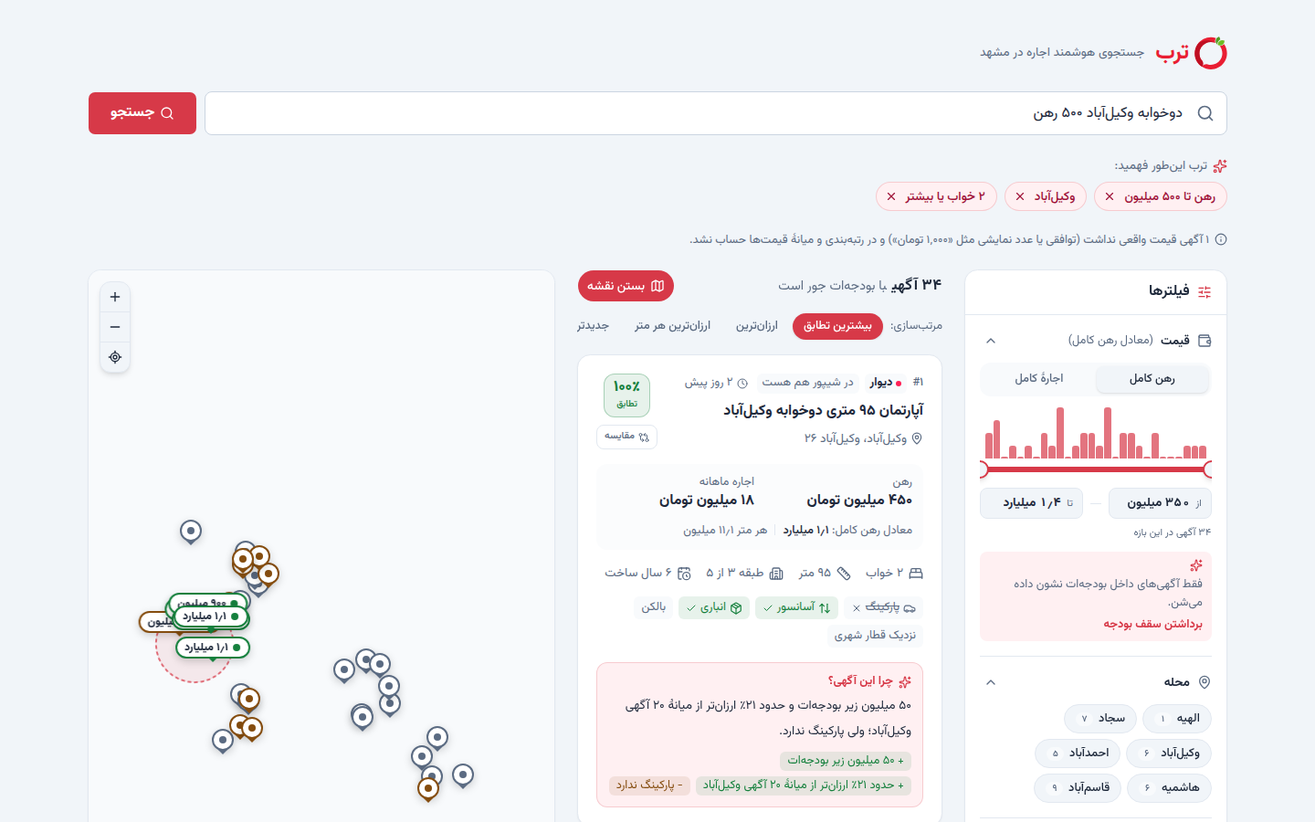
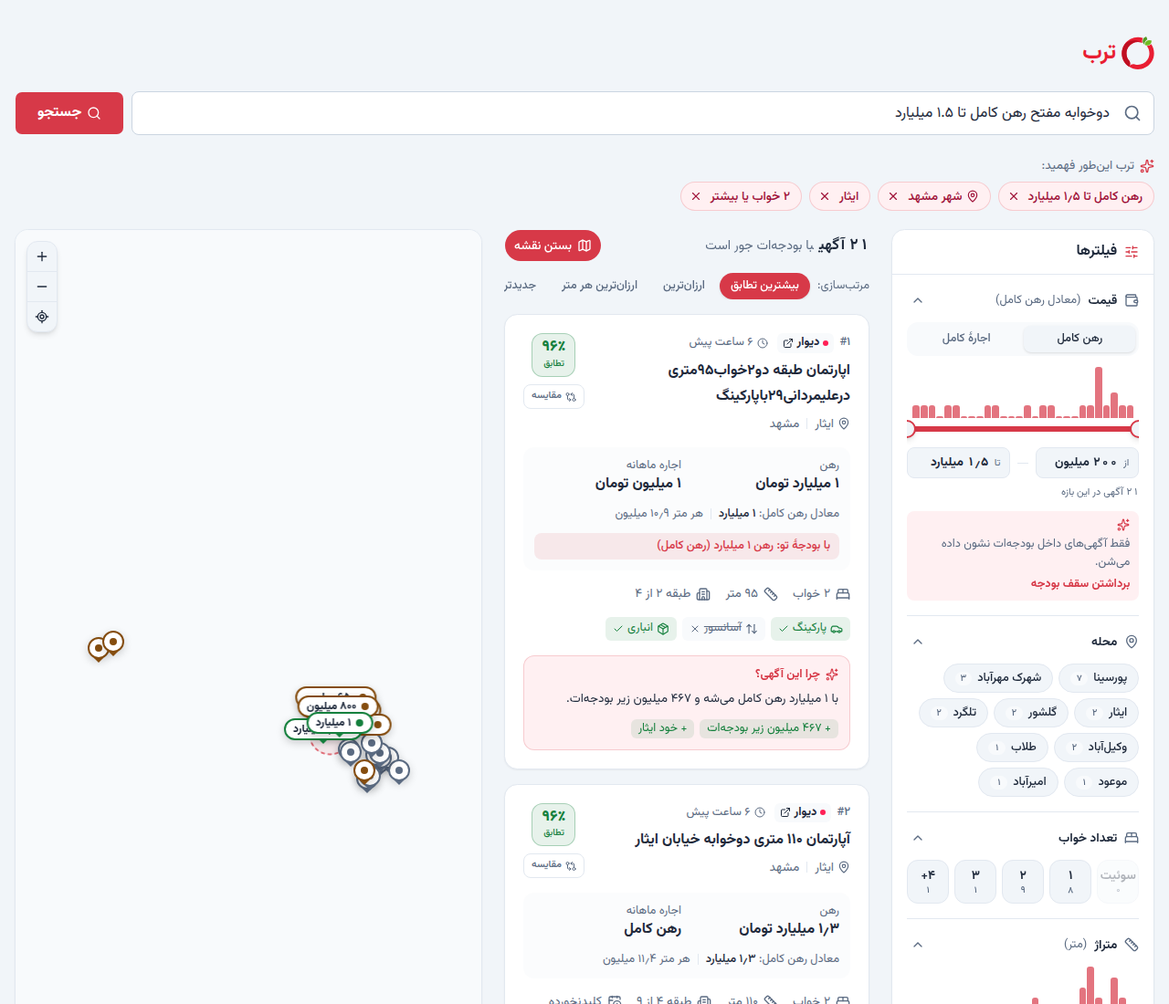
docs(demo): approved real-data demo queries and script
Owner approved option (a): the demo script now uses three queries that
work on the 50 real Divar ads (Mofatteh 2-bed full rahn, Vakilabad
tight budget, Poursina villa + remove the neighborhood chip).
demo-queries.ts follows, with a test that each returns results;
README screenshots retaken on real data. An ad for living with the
owner's mother («مادرم تنها زندگی میکند») now counts as shared
housing instead of ranking as «۹۰٪ ارزانتر».

Claude-Session: https://claude.ai/code/session_01DehR8yyJoUjhkncE4MZhq2

diff --git a/src/lib/demo-queries.ts b/src/lib/demo-queries.ts
@@ -1,19 +1,19 @@
-/** Example queries: shown as clickable chips in the UI and used for manual testing. */
+/** Example queries for manual testing — all return results on the real data (src/data/divar.json). */
 export const DEMO_QUERIES = [
-  "یه آپارتمان دوخوابه نزدیک وکیلآباد با ۵۰۰ میلیون رهن",
-  "سوئیت یا یکخوابه تو سجاد، ماهی حداکثر ۸ تومن",
-  "خونه پارکینگدار در احمدآباد برای خانواده ۳ نفره",
-  "رهن کامل تا یک و نیم میلیارد، هاشمیه یا وکیلآباد",
-  "پونصد تومن پول پیش دارم و ماهی ۱۵ تومن میتونم اجاره بدم، قاسمآباد",
-  "رهن ۳۰۰ اجاره ۱۰، دوخوابه با آسانسور",
-  "یه جای نوساز و مبله برای یه زوج جوان، الهیه، ترجیحاً نزدیک قطار شهری",
-  "حدود ۱۲۰ متر سهخوابه با پارکینگ و انباری، بودجه ۲ میلیارد",
-  "دانشجوام، یه سوئیت ارزون هر جای مشهد، ماهی ۵ تومن",
-  "دوخوابه بالکندار سجاد، پارکینگ مهم نیست، رهن ۴۰۰ میلیون",
+  // docs/DEMO_SCRIPT.md, in order
+  "دوخوابه مفتح رهن کامل تا ۱.۵ میلیارد",
+  "دوخوابه وکیلآباد با ۵۰۰ میلیون رهن",
+  "خونه ویلایی پورسینا رهن ۲۰۰ ماهی ۱۰ تومن",
+  // backup / extra
+  "یک خوابه گلشور ماهی ۱۵ تومن",
+  "سه خوابه وکیلآباد رهن ۷۰۰ اجاره ۱۰",
+  "آپارتمان با آسانسور و پارکینگ نزدیک مفتح، رهن کامل تا ۲ میلیارد",
+  "خونه حیاطدار شرق مشهد، رهن ۱۰۰ ماهی ۱۰ تومن",
 ] as const;
 
 /**
- * Home-page chips: short, the way people really type (docs/research/landing-ux.md) — three is
- * enough. Each must parse with the rule fallback too and return results.
+ * Short chips, the way people really type (docs/research/landing-ux.md). Not on the home page since
+ * the "logo + search only" landing; kept for tests and future use. Each must parse with the rule
+ * fallback too and return results.
  */
-export const HERO_EXAMPLES = ["دوخوابه وکیلآباد ۵۰۰ رهن", "سوئیت سجاد ماهی ۸ تومن", "رهن کامل تا یک و نیم میلیارد هاشمیه"] as const;
+export const HERO_EXAMPLES = ["دوخوابه مفتح رهن کامل", "ویلایی پورسینا ۲۰۰ رهن", "دوخوابه وکیلآباد ۵۰۰ رهن"] as const;

diff --git a/src/lib/quality.ts b/src/lib/quality.ts
@@ -11,7 +11,8 @@ export function isPlaceholderPrice(l: Pick<Listing, "deposit" | "monthlyRent">):
   return tiny || repeated(l.deposit) || repeated(l.monthlyRent);
 }
 
-const SHARED = /همخونه|هم خونه|هماتاقی|هم اتاقی|اجاره اتاق|اتاق اجاره/;
+// Also "living with the owner's family": «مادرم تنها زندگی میکند، فقط خانم تنها».
+const SHARED = /همخونه|هم خونه|هماتاقی|هم اتاقی|اجاره اتاق|اتاق اجاره|تنها زندگی می ?کند|تنها زندگی میکنه/;
 
 /** A room in a shared flat: its price is for one room, not a whole unit. */
 export function isSharedHousing(l: Pick<Listing, "title" | "description">): boolean {

diff --git a/src/lib/quality.test.ts b/src/lib/quality.test.ts
@@ -22,6 +22,7 @@ describe("data quality", () => {
   it("flags shared rooms in any spelling", () => {
     expect(isSharedHousing({ title: "اجاره اتاق در واحد دوخوابه", description: "" })).toBe(true);
     expect(isSharedHousing({ title: "همخونه آقا", description: "" })).toBe(true);
+    expect(isSharedHousing({ title: "خانه ۱۶۰متری", description: "مادرم تنها زندگی میکند فقط خانم تنها" })).toBe(true);
     expect(isSharedHousing({ title: "آپارتمان ۹۵ متری", description: "مناسب خانواده" })).toBe(false);
   });
 

diff --git a/src/lib/demo-queries.test.ts b/src/lib/demo-queries.test.ts
@@ -1,0 +1,14 @@
+import { describe, expect, it } from "vitest";
+
+import { DEMO_QUERIES, HERO_EXAMPLES } from "./demo-queries";
+import { resolvePlace } from "./intent/place";
+import { parseIntentWithRules } from "./intent/rules";
+import { search } from "./search";
+
+describe("demo queries", () => {
+  it("all return real results with the rule parser alone", () => {
+    for (const q of [...DEMO_QUERIES, ...HERO_EXAMPLES]) {
+      expect(search(resolvePlace(parseIntentWithRules(q))).total, q).toBeGreaterThan(0);
+    }
+  });
+});

diff --git a/docs/DEMO_SCRIPT.md b/docs/DEMO_SCRIPT.md
@@ -1,36 +1,36 @@
 # Homerob — Demo script (≤ 5 min, Persian narration)
 
-> Status: **draft — waiting for owner approval** of the three demo queries and the narration
-> (see `docs/PLAN.md` → Open questions). Numbers below are what production returned on
-> 2026-09-24; small wording differences in the AI text are expected.
+> Status: **approved by the owner (2026-09-27)** — three queries on the real Divar data (50 ads,
+> Mashhad). Numbers below are what the app returned on 2026-09-27; small wording differences in the AI
+> text are expected.
 
 Live: https://homerob.vercel.app
 
 ## Before recording (checklist)
 
 - Browser window ~1280×800, zoom 110%, hide bookmarks bar, one clean tab.
-- Home-page map intro (~8s: Iran → "موقعیت شما: مشهد، نزدیک …" → fly into Mashhad) uses the browser
-  location (allow it), falling back to IP location. With a VPN and location blocked it can't tell
-  you're in Mashhad — then open **`/?city=Mashhad`**. Let the intro finish before typing — it's a good
-  opening shot.
+- The home page is only the Torob logo + search box over the Iran map with "new ad" pins; it asks for
+  no location. Let a few pins drop before typing — it's the opening shot.
 - **Warm up**: run the 3 queries once 1–2 minutes before recording (fills the in-memory cache,
   avoids Gemini free-tier slowness). Wait ~1 min after warm-up so the rate limit resets.
 - Check the explanation box shows the small **AI** badge. If it doesn't (Gemini busy), wait a minute
   and re-run — the rule-based text is fine, but the AI one tells the story better.
+- Every card links to the real Divar ad (دیوار ↗). Ads expire — re-run the queries on recording day and
+  adjust the card numbers below if an ad is gone.
 - Direct links (paste instead of typing if needed):
-  - Q1: https://homerob.vercel.app/?q=یه%20آپارتمان%20دوخوابه%20نزدیک%20وکیلآباد%20با%20۵۰۰%20میلیون%20رهن
-  - Q2: https://homerob.vercel.app/?q=دانشجوام،%20یه%20سوئیت%20ارزون%20هر%20جای%20مشهد،%20ماهی%20۵%20تومن
-  - Q3: https://homerob.vercel.app/?q=دوخوابه%20بالکندار%20سجاد،%20پارکینگ%20مهم%20نیست،%20رهن%20۴۰۰%20میلیون
+  - Q1: https://homerob.vercel.app/?q=دوخوابه%20مفتح%20رهن%20کامل%20تا%20۱.۵%20میلیارد
+  - Q2: https://homerob.vercel.app/?q=دوخوابه%20وکیلآباد%20با%20۵۰۰%20میلیون%20رهن
+  - Q3: https://homerob.vercel.app/?q=خونه%20ویلایی%20پورسینا%20رهن%20۲۰۰%20ماهی%20۱۰%20تومن
 
 ## Timeline
 
 | Time | On screen | Beat |
 |---|---|---|
 | 0:00–0:35 | Divar/Sheypoor-style listing text (or the Homerob home page) | Problem |
-| 0:35–1:05 | Homerob home page (map intro plays) | Idea: Torob for home |
+| 0:35–1:05 | Home page (Iran map, "new ad" pins) | Idea: Torob for home |
 | 1:05–2:10 | Q1 — simple query | Understanding + normalization + explanation |
-| 2:10–3:00 | Q2 — tricky budget | Empty state that helps |
-| 3:00–4:00 | Q3 — trade-off + remove a chip | Honest trade-offs, user in control |
+| 2:10–3:00 | Q2 — tricky budget | Honest "not with this budget" |
+| 3:00–4:00 | Q3 — trade-off + remove a chip | User in control, nearby options |
 | 4:00–4:35 | (stay on results) | Under the hood / product decisions |
 | 4:35–5:00 | Home page | What's next |
 
@@ -47,62 +47,62 @@ Live: https://homerob.vercel.app
 
 ### 0:35 — ایده (≈ ۳۰ ثانیه)
 
-*On screen: home page — let the map fly-in finish, then point at the search box and the 3 example chips.*
+*On screen: home page — a few "new ad" pins drop across Iran; point at the search box.*
 
-> هومراب یعنی «ترب، ولی برای خونه». همون کاری که ترب برای قیمت کالا کرده — جمع کردن، ساختار دادن،
-> مقایسه کردن — اینبار برای اجارهی خونه تو مشهد. اینجا فیلتر و فرم نداریم؛ فقط مینویسی چی
-> میخوای، به زبان خودت، و هوش مصنوعی بقیهش رو انجام میده.
+> این «ترب برای خونه»ه. همون کاری که ترب برای قیمت کالا کرده — جمع کردن، ساختار دادن، مقایسه
+> کردن — اینبار برای اجارهی خونه. آگهیها واقعیان، از دیوار، و هر کارت به آگهی اصلی لینک داره.
+> اینجا فیلتر و فرم نداریم؛ فقط مینویسی چی میخوای، به زبان خودت، و هوش مصنوعی بقیهش رو انجام میده.
 
 ### 1:05 — سؤال ۱: ساده (≈ ۶۵ ثانیه)
 
-*Type or click:* **«یه آپارتمان دوخوابه نزدیک وکیلآباد با ۵۰۰ میلیون رهن»**
+*Type or click:* **«دوخوابه مفتح رهن کامل تا ۱.۵ میلیارد»**
 
-1. *Point at the chips* (رهن تا ۵۰۰ میلیون · وکیلآباد · ۲ خواب یا بیشتر):
-   > اول ببینید هومراب چی فهمید: بودجهی رهن ۵۰۰ میلیون، محله وکیلآباد، حداقل دو خواب. اینها
-   > فیلترهاییان که از یه جملهی محاورهای درآومده.
-2. *Point at card #1 (dv-0901, 450M + 18M, "در شیپور هم هست")*:
-   > نتیجهی اول: ۹۵ متر، دوخوابه، خود وکیلآباد. این آگهی هم تو دیوار بوده هم تو شیپور؛ هومراب
-   > تشخیص داده یکیان و یه کارت نشون میده — دقیقاً کاری که ترب با کالای تکراری میکنه.
-3. *Point at the AI box*: «پنجاه میلیون زیر بودجهته و خود وکیلآباده، ولی پارکینگ نداره.»
-   > و مهمتر: میگه چرا. نه فقط مزیت، بلکه ضعفش رو هم صادقانه میگه: پارکینگ نداره.
-4. *Point at card #2 (sp-0902, 550M + 16M → «با بودجهٔ تو: رهن ۵۰۰ میلیون + اجاره ۱۷٫۵ میلیون»)*:
-   > این یکی ۵۵۰ میلیون رهن میخواد، یعنی بالای بودجهست. ولی قابل تبدیله؛ هومراب حساب کرده اگه
-   > ۵۰۰ بدی، اجاره میشه ۱۷ و نیم میلیون. همهی قیمتها با یه نرخ ثابت — هر یک میلیون رهن، ۳۰ هزار
-   > تومن اجاره — همتراز شدن، برای همین «معادل رهن کامل» و «قیمت هر متر» قابل مقایسهان.
+1. *Point at the chips* (رهن کامل تا ۱٫۵ میلیارد · شهر مشهد · ایثار · ۲ خواب یا بیشتر):
+   > اول ببینید چی فهمید: رهن کامل تا یک و نیم میلیارد، حداقل دو خواب. «مفتح» اسم یه خیابون و
+   > ایستگاه متروئه، نه محله؛ هومراب میدونه تو محلهی ایثاره و محلههای کناری — گلشور، طلاب،
+   > تلگرد — رو هم با امتیاز کمتر میاره.
+2. *Point at card #1 (ایثار، ۹۵ متر، دوخوابه — رهن ۱ میلیارد + اجاره ۱ میلیون)*:
+   > نتیجهی اول: دوخوابهی ۹۵ متری تو خود ایثار. آگهی گفته یه میلیارد رهن و یه میلیون اجاره، ولی
+   > من رهن کامل خواستم. چون قابل تبدیله، هومراب حساب کرده: «با ۱ میلیارد رهن کامل میشه» — و
+   > تازه ۴۶۷ میلیون زیر بودجهست. همهی قیمتها با یه نرخ ثابت همتراز شدن — هر یک میلیون رهن، ۳۰
+   > هزار تومن اجاره — برای همین «معادل رهن کامل» و «قیمت هر متر» قابل مقایسهان.
+3. *Point at card #3 (گلشور، ۱۱۵ متر، رهن کامل ۸۰۰ میلیون)* and its AI box:
+   > و این یکی صادقانه میگه: ۲۰٪ ارزونتر از میانهی ۷ آگهی گلشوره — ولی گلشوره، نه ایثار. تصمیم
+   > با منه.
+4. *Click «دیوار ↗» on card #1* (opens the real ad), come back.
+   > و این آگهی واقعیه؛ یه کلیک تا خود آگهی تو دیوار.
 5. *(≈ 10 s, optional)* Tick «مقایسه» on cards #1–#3 → «مقایسه» in the bottom bar.
    > میتونم دو سه تا رو کنار هم بذارم؛ فقط چیزهایی که فرق دارن نشون داده میشن و بهترینِ هر ردیف
-   > سبزه.
-6. *(one line)* Point at the small note «۱ آگهی قیمت واقعی نداشت…»:
-   > آگهیای که قیمتش «توافقی» یا یه عدد الکیه، نه ارزون حساب میشه نه میانهی محله رو خراب میکنه.
+   > سبزه. چیزی که آگهی نگفته «نامشخص» میمونه؛ هومراب حدس نمیزنه.
 
 ### 2:10 — سؤال ۲: بودجهی سخت (≈ ۵۰ ثانیه)
 
-*Type or click:* **«دانشجوام، یه سوئیت ارزون هر جای مشهد، ماهی ۵ تومن»**
+*Type or click:* **«دوخوابه وکیلآباد با ۵۰۰ میلیون رهن»**
 
-1. *Chips:* اجاره تا ۵ میلیون · سوئیت · دانشجو
-   > «ماهی ۵ تومن» یعنی ۵ میلیون؛ این رو هم فهمید.
-2. *Empty state:* «هیچ آگهیای با این بودجه نیست» + button «با ماهی ۶ میلیون، ۲ آگهی پیدا میشه — نشونم بده»
-   > با این بودجه هیچی نیست — و به جای یه صفحهی خالی، هومراب میگه با ماهی ۶ میلیون دو تا
-   > گزینه هست.
-3. *Click the button.* Top results: سوئیت ۴۴ متری قاسمآباد → «با ۲۲۳ میلیون رهن، اجارهاش ۶ میلیون میشه».
-   > یه کلیک، و حتی میگه چقدر رهن بدی تا اجاره به ۶ میلیون برسه.
-4. *(optional, ≈ 10 s)* Back, then the note «۲ آگهی اجاره اتاق / همخونه… نشونم بده»:
-   > اتاقهای همخونه رو جدا نگه داشته، چون قیمتشون برای یه اتاقه نه کل واحد؛ ولی اگه برای یه
-   > دانشجو گزینهی خوبیه، یه کلیک فاصله داره.
+1. *Chips:* رهن تا ۵۰۰ میلیون · وکیلآباد · ۲ خواب یا بیشتر
+2. *Top results:* three 1-bedrooms in وکیلآباد (۵۰ متری ۲۵۰ + ۳ میلیون، ویلایی ۱۰۰ متری ۴۰۰ + ۱۴ میلیون,
+   سوئیت ۴۰ متری), each with the con «۱ خوابه است، نه ۲ خوابه»; #4 is a 2-bedroom villa in گلشور.
+   > دوخوابههای وکیلآباد تو دیوار الان از یک میلیارد رهن کامل شروع میشن. هومراب به جای اینکه
+   > نتیجهی بد رو خوب جلوه بده، صاف میگه: «۱ خوابه است، نه ۲ خوابه». بدهبستان رو جلوی چشمم
+   > میذاره: یا تو وکیلآباد یهخوابه، یا دوخوابه ولی تو یه محلهی دیگه.
+3. *(optional)* Open «فیلترها» → price histogram:
+   > و با فیلترها میتونم ببینم قیمتها کجا جمع شدن، بدون اینکه دوباره تایپ کنم.
 
 ### 3:00 — سؤال ۳: بدهبستان (≈ ۶۰ ثانیه)
 
-*Type or click:* **«دوخوابه بالکندار سجاد، پارکینگ مهم نیست، رهن ۴۰۰ میلیون»**
+*Type or click:* **«خونه ویلایی پورسینا رهن ۲۰۰ ماهی ۱۰ تومن»**
 
-1. *Chips:* رهن تا ۴۰۰ میلیون · سجاد · ۲ خواب یا بیشتر · بالکن — **no parking chip**
-   > دقت کنید: گفتم «پارکینگ مهم نیست» و هومراب پارکینگ رو شرط نکرده.
-2. *Top results:* a 1-bedroom in Sajjad («۱۰۰ میلیون زیر بودجهات… ولی ۱ خوابه است، نه ۲ خوابه») and
-   a 2-bedroom outside Sajjad.
-   > با ۴۰۰ میلیون، تو سجاد دوخوابهی بالکندار نیست. هومراب قایمش نمیکنه؛ بدهبستان رو نشون میده:
-   > یا تو سجاد یهخوابه، یا دوخوابه ولی تو محلهی دیگه.
-3. *Remove the «سجاد» chip (×).* New top: 2-bedrooms in وکیلآباد / قاسمآباد / هاشمیه.
-   > اگه محله برام مهم نباشه، فقط این چیپ رو برمیدارم — بدون تایپ دوباره — و بهترین دوخوابهها
-   > با همین بودجه میان بالا. کنترل دست کاربره.
+1. *Chips:* رهن تا ۲۰۰ میلیون · اجاره تا ۱۰ میلیون · پورسینا
+   > «ماهی ۱۰ تومن» یعنی ۱۰ میلیون؛ این رو هم فهمید. بودجهی دوطرفه: هم رهن، هم اجاره.
+2. *Top results:* ویلایی ۵۵ متری، رهن کامل ۲۰۰ میلیون («ماهی ۱۰ میلیون کمتر از سقف اجارهات»،
+   «۱۱٪ ارزانتر از میانهٔ ۱۰ آگهی پورسینا»); #2 خانه ۶۰ متری ۲۵۰ رهن کامل → «با ۲۰۰ میلیون رهن،
+   اجارهاش ۱٫۵ میلیون میشه».
+   > دومی ۲۵۰ رهن میخواد، بالای بودجهم؛ ولی قابل تبدیله و هومراب حساب کرده با ۲۰۰ میلیون، اجاره
+   > فقط یک و نیم میلیون میشه.
+3. *Remove the «پورسینا» chip (×).* New results include a 3-bedroom 120 m² villa in شهید معقول (۱۰۰ +
+   ۱۰ میلیون) and a 3-bedroom 110 m² house in تلگرد (۲۰۰ + ۱۰ میلیون).
+   > حالا اگه محله برام مهم نباشه، فقط این چیپ رو برمیدارم — بدون تایپ دوباره — و با همین بودجه
+   > خونههای سهخوابه تو محلههای کناری میان بالا. کنترل دست کاربره.
 
 ### 4:00 — پشت صحنه (≈ ۳۵ ثانیه)
 
@@ -113,7 +113,7 @@ Live: https://homerob.vercel.app
 
 ### 4:35 — قدم بعدی (≈ ۲۵ ثانیه)
 
-> این نسخه با دادهی نمونهی مشهد کار میکنه، ولی معماریش منبع داده رو جدا نگه داشته. قدم بعدی
+> این نسخه با ۵۰ آگهی واقعی دیوار از مشهد کار میکنه و معماریش منبع داده رو جدا نگه داشته. قدم بعدی
 > وصل شدن به یه منبع زنده و فقطخواندنیه — مثلاً یه سرور MCP روی آگهیهای عمومی، یا دادهای که
 > خود پلتفرمها رسماً در اختیار میذارن — و بعد تشخیص تکراری هوشمندتر بین سایتها و شهرهای بیشتر.
 > هدف رقابت با دیوار نیست؛ هدف لایهی هوشمندیه که به آگهیهای موجود معنی میده. ممنون که دیدید.
@@ -122,6 +122,5 @@ Live: https://homerob.vercel.app
 
 ## Backup query (if one of the above misbehaves)
 
-- **«پونصد تومن پول پیش دارم و ماهی ۱۵ تومن میتونم اجاره بدم، قاسمآباد»** — shows colloquial
-  numbers (پونصد تومن → ۵۰۰ میلیون، ۱۵ تومن → ۱۵ میلیون) and a two-sided budget; top result
-  «ماهی ۳ میلیون کمتر از سقف اجارهات».
+- **«یک خوابه گلشور ماهی ۱۵ تومن»** — colloquial rent (۱۵ تومن → ۱۵ میلیون); top result a 2-bedroom
+  115 m² in گلشور, full rahn, «۲۰٪ ارزانتر از میانهٔ ۷ آگهی گلشور».

diff --git a/docs/PLAN.md b/docs/PLAN.md
@@ -113,8 +113,11 @@ Time boxes are hard limits. Over budget → cut to simplest demoable version, no
     پورسینا، موعود، امیرآباد، شهید معقول، صیاد شیرازی، فرهنگ) → the 1st batch's فرهنگ ad now imports and
     one ad moved to its real district (صیاد شیرازی). 6 apartments skipped: the export loses their
     متراژ (DATA.md, "Known export gap"). 72 tests.
-- **Next:** owner approves new demo queries that work on the real data ([DECISION] below) + sends more
-  rent-residential exports (other neighborhoods) → `npm run import:divar`. Then: owner approves demo queries/script (+ demo cache question) → record video. Filter panel + Neshan map merged (PR #9) and live on Production; Neshan key is inlined in the prod bundle (`web.` key), but tiles can't be viewed from the sandbox → owner eyeballs the map on homerob.vercel.app.
+  - **Demo queries approved (owner, option (a)):** `docs/DEMO_SCRIPT.md` rewritten for the real data (Q1
+    «دوخوابه مفتح…», Q2 «دوخوابه وکیلآباد ۵۰۰…», Q3 «خونه ویلایی پورسینا…» + remove the neighborhood chip),
+    `demo-queries.ts` + a test that every demo query returns results, README screenshots retaken. The
+    «مادرم تنها زندگی میکند» ad now counts as shared housing (it topped Q3 as «۹۰٪ ارزانتر»).
+- **Next:** record the video (owner). More rent-residential exports → `npm run import:divar`. Then: owner approves demo queries/script (+ demo cache question) → record video. Filter panel + Neshan map merged (PR #9) and live on Production; Neshan key is inlined in the prod bundle (`web.` key), but tiles can't be viewed from the sandbox → owner eyeballs the map on homerob.vercel.app.
 - **Blocked:** nothing. (torob.com blocks the sandbox; the owner captures it with Claude in Chrome.) AI provider: Gemini free tier (see DECISIONS).
 - **Cut / deferred:** `claude` provider (owner switched to Gemini; OpenAI-compatible client covers
   gemini/deepseek/openai).
@@ -146,11 +149,6 @@ Time boxes are hard limits. Over budget → cut to simplest demoable version, no
   (b) keep everything live and re-record if Gemini is slow. Until answered: live only.
   Evidence (2026-09-24 evening): `gemini-3.6-flash` daily quota exhausted (429); lite models took
   6–13 s per call → most requests fell back to the rule parser/explanations.
-- [DECISION] **کوئریهای دمو با دادهٔ واقعی (۵۰ آگهی: وکیلآباد + اطراف مفتح).** پیشنهاد من (همه روی دادهٔ
-  فعلی تست شده): (۱) ساده: «دوخوابه مفتح رهن کامل تا ۱.۵ میلیارد» → دو آپارتمان دوخوابهٔ ایثار با ۹۶٪
-  تطابق، (۲) بودجهٔ سخت: «دوخوابه وکیلآباد با ۵۰۰ میلیون رهن» → توضیح صادقانه که با این بودجه دوخوابه
-  نیست، (۳) بدهبستون: «خونه ویلایی پورسینا رهن ۲۰۰ ماهی ۱۰ تومن» + حذف یک چیپ. جایگزین: صبر کنیم تا
-  خروجی محلههای دیگه برسه.
 
 ---
 
@@ -207,7 +205,7 @@ Time boxes are hard limits. Over budget → cut to simplest demoable version, no
 ### Phase 6 — Demo package (≤ 2h)
 - [x] `docs/DEMO_SCRIPT.md`: Persian narration, ≤ 5 min: problem → solution → 3 live queries
       (simple, tricky budget, trade-off) → what's next (live aggregation, dedup across sources, more cities)
-- [ ] [DECISION] Owner approves the 3 demo queries and the script
+- [x] [DECISION] Owner approves the 3 demo queries and the script (2026-09-27, real-data queries)
 - [x] README updated with live link, screenshot, how it works
 
 ## Follow-ups from divar-mcp decision (owner: options 1 + 4)
@@ -237,7 +235,7 @@ Time boxes are hard limits. Over budget → cut to simplest demoable version, no
 - [x] Replace the Mashhad sample set — removed (owner chose (b)); only real ads served
 - [ ] More real ads: rent-residential exports for other neighborhoods / cities (owner exports, I import)
 - [ ] Show the Divar thumbnail (`imageUrl`) on real cards — propose to the owner with the next batch
-- [ ] Revise `docs/DEMO_SCRIPT.md` + README for nationwide scale and real data (after real data lands)
+- [x] Revise `docs/DEMO_SCRIPT.md` + README for nationwide scale and real data
 
 ## Stretch (only if everything above is done)
 - [x] Cross-source duplicate detection (exact-match version, done in Phase 3) (same listing on Divar & Sheypoor merged — very "Torob")

diff --git a/README.md b/README.md
@@ -8,7 +8,7 @@ Built for [Torob](https://torob.com)'s **AI Product Engineer** hiring challenge 
 
 > ترب برای پیدا کردن بهترین قیمت کالا رو ساده کرده؛ Homerob همون کارو برای پیدا کردن خونه انجام میده.
 
-![Homerob results for «یه آپارتمان دوخوابه نزدیک وکیلآباد با ۵۰۰ میلیون رهن»](docs/screenshots/desktop-results.png)
+![Homerob results for «دوخوابه مفتح رهن کامل تا ۱.۵ میلیارد» — real Divar ads](docs/screenshots/desktop-results.png)
 
 ---
 
@@ -28,7 +28,7 @@ Homerob is a **meta-search / AI-normalization layer** on top of existing listing
 1. **Understands** the request — budget, neighborhood, rooms, must-haves vs. nice-to-haves — and shows it back as editable chips
 2. **Normalizes** every listing's rahn/ejare split to comparable numbers (full-deposit equivalent, price per m², and *your* split if the landlord allows conversion)
 3. **Ranks** listings by fit (hard budget filter + soft, weighted scoring)
-4. **Explains** each top result in plain Persian — including the trade-off (e.g. «۵۰ میلیون زیر بودجهته و خود وکیلآباده، ولی پارکینگ نداره.»)
+4. **Explains** each top result in plain Persian — including the trade-off (e.g. «۷۰۰ میلیون زیر بودجهات و حدود ۲۰٪ ارزانتر از میانهٔ ۷ آگهی گلشور؛ ولی گلشور است، نزدیک ایثار.»)
 
 ## How it works
 
@@ -54,7 +54,7 @@ Resilience: the Gemini free tier is flaky, so models are **raced** (next model a
 
 ## Core Features
 
-- 🔎 **Natural-language Persian search** — e.g. *«سوئیت یا یکخوابه تو سجاد، ماهی حداکثر ۸ تومن»*
+- 🔎 **Natural-language Persian search** — e.g. *«خونه ویلایی پورسینا رهن ۲۰۰ ماهی ۱۰ تومن»*
 - 🏷 **"What the AI understood" chips** — remove any chip to refine instantly (no re-typing, no extra AI call)
 - 💰 **Rahn ↔ Ejare normalization** — full-deposit equivalent, price per m², and the split *you* would pay
 - 📊 **Fair-price signal** — cheaper/pricier than the neighborhood median per m²

diff --git a/docs/DECISIONS.md b/docs/DECISIONS.md
@@ -98,3 +98,7 @@
   mix until the video" were the alternatives). The app serves only the 13 real Divar ads (وکیلآباد
   مشهد); demo queries naming other neighborhoods or a 2-bed at 500M get few/weak results until more real
   data arrives. Tests use hand-written fixtures (`src/test/fixtures.ts`), never served.
+- 2026-09-27 — **Demo queries approved** (owner chose option (a); "wait for more exports" was the
+  alternative): (1) «دوخوابه مفتح رهن کامل تا ۱.۵ میلیارد», (2) «دوخوابه وکیلآباد با ۵۰۰ میلیون رهن»,
+  (3) «خونه ویلایی پورسینا رهن ۲۰۰ ماهی ۱۰ تومن» + remove the «پورسینا» chip. Script:
+  `docs/DEMO_SCRIPT.md`. Owner asked to merge and update the live site.
